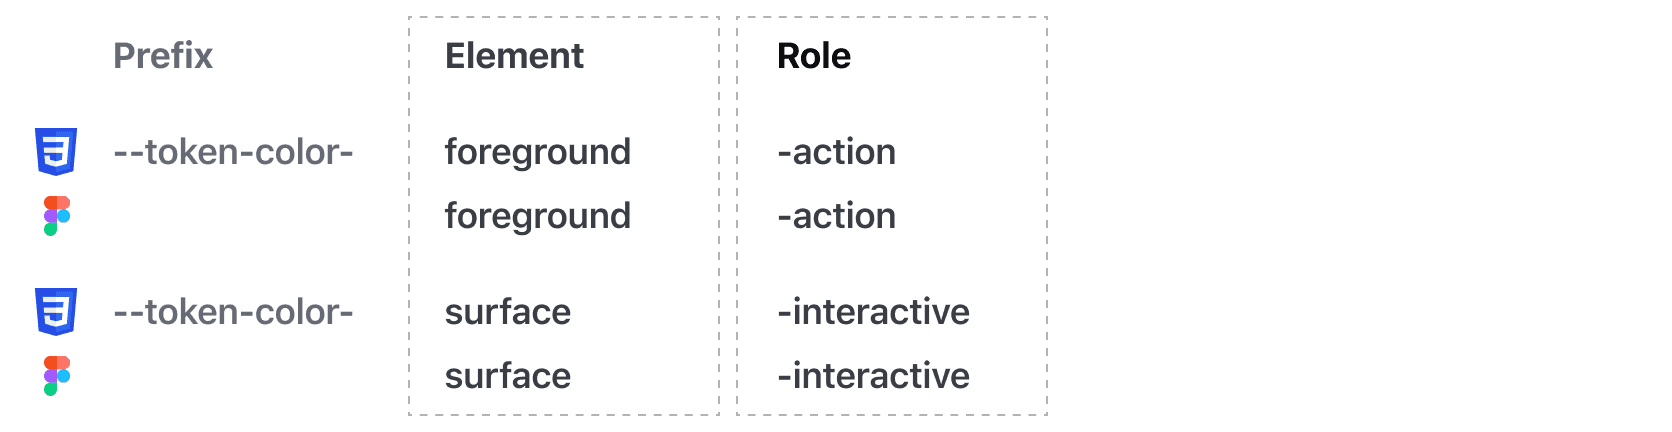
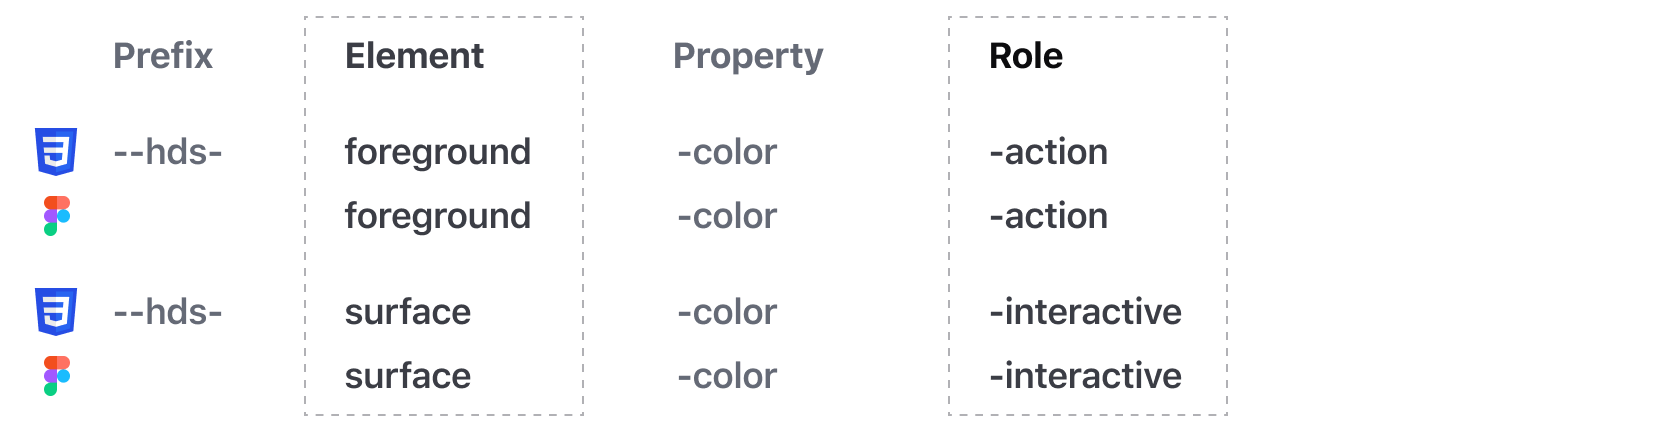
updated “Guidelines” content in “Foundations/Colors” page

diff --git a/website/docs/foundations/colors/partials/guidelines/guidelines.md b/website/docs/foundations/colors/partials/guidelines/guidelines.md
@@ -13,21 +13,21 @@ Tokens in code are generated from platform-agnostic files, in our case JSON, and
 The Semantic Palette embeds meaning into color names, making it easier to select correct consistent values across applications. These colors are designed to meet accessibility standards when used in combination with one another.
 
 - Foreground colors are intended to be used with surface or page colors.
-- Status color values consist of "surface," "on-surface," and "high-contrast" options to meet accessibility standards when used together. 
+- Status color values consist of "surface," "on-surface," and "high-contrast" options to meet accessibility standards when used together.
 
 Some examples of semantic color combinations with their respective contrast ratios are:
 
-- `Foreground/Strong` on `Surface/Primary` nets a ratio of 19.54:1
-- `Foreground/Primary` on `Surface/Primary` nets a ratio of 10.82:1
-- `Foreground/Action` on `Surface/Faint` nets a ratio of 4.86:1
+- `Foreground/Color/Strong` on `Surface/Color/Primary` nets a ratio of 19.54:1
+- `Foreground/Color/Primary` on `Surface/Color/Primary` nets a ratio of 10.82:1
+- `Foreground/Color/Action` on `Surface/Color/Faint` nets a ratio of 4.86:1
 
 ![A Card component with the color contrast ratios for each of the color combinations labelled](/assets/foundations/color/colors-semantic-tokens-accessibility-examples.png)
 
 ### How are semantic names created?
 
-In semantic token naming, the **element** and the **role** are defined to make color decisions easier and more consistent. HDS organizes semantic tokens into **element** categories with **roles** appended.
+In semantic token naming, the semantic **element** and the **role** are defined to make color decisions easier and more consistent. HDS organizes semantic tokens into **element** categories with **properties** and **roles** appended.
 
-![Columns showing how the token name is broken down into a prefix, element, and role](/assets/foundations/color/colors-semantic-token-naming.png)
+![Columns showing how the token name is broken down into a prefix, element, property, and role](/assets/foundations/color/colors-semantic-token-naming.png)
 
 Examples of **element** naming include:
 
@@ -36,7 +36,7 @@ Examples of **element** naming include:
 - **Surface** - For the background (or surface) of a component or container
 - **Page** - For page backgrounds
 
-Examples of **role** in naming include: 
+Examples of **role** in naming include:
 
 - Strong
 - Primary
@@ -50,10 +50,10 @@ Foreground colors are used for informational and decorative elements such as tex
 
 Some common examples of semantic foreground colors include:
 
-- `Foreground/Strong` for headings and secondary links
-- `Foreground/Primary` for body text
-- `Foreground/Faint` for less prominent text and UI elements
-- `Foreground/Action` for primary calls to action such as links
+- `Foreground/Color/Strong` for headings and secondary links
+- `Foreground/Color/Primary` for body text
+- `Foreground/Color/Faint` for less prominent text and UI elements
+- `Foreground/Color/Action` for primary calls to action such as links
 
 ![Samples of text with their color tokens labelled](/assets/foundations/color/colors-foreground-examples.png)
 
@@ -68,9 +68,9 @@ Status foreground colors contextualize responses from user actions or indicate s
 
 Some examples of border colors include:
 
-- `Border/Strong` for secondary Button border
-- `Border/Primary` for Card border or divider
-- `Border/{Status color}` for Alert borders
+- `Border/Color/Strong` for secondary Button border
+- `Border/Color/Primary` for Card border or divider
+- `Border/Color/{Status color}` for Alert borders
 
 ![Sample borders applied on a button, card, and alert with the border color tokens labelled](/assets/foundations/color/colors-border-examples.png)
 
@@ -80,27 +80,27 @@ Surface colors are intended to be used for the background (or surface) of a comp
 
 Examples of surface colors include:
 
-- `Surface/Strong` for the Toggle background
-- `Surface/Primary` for component containers
-- `Surface/Faint` for the secondary Button
-- `Surface/{Status color}` for Alert backgrounds
+- `Surface/Color/Strong` for the Toggle background
+- `Surface/Color/Primary` for component containers
+- `Surface/Color/Faint` for the secondary Button
+- `Surface/Color/{Status color}` for Alert backgrounds
 
 ![Sample surface colors being applied to a badge, card, button, and alert with the surface color token labelled.](/assets/foundations/color/colors-surface-examples.png)
 
 ### Page
 
-Page colors are used for page backgrounds. HDS components do not use these tokens; however, we recommend `Page/Primary` for all standard page backgrounds and `Page/Faint` as a means to create a secondary level on a page if necessary.
+Page colors are used for page backgrounds. HDS components do not use these tokens; however, we recommend `Page/Color/Primary` for all standard page backgrounds and `Page/Color/Faint` as a means to create a secondary level on a page if necessary.
 
 ## Accessible color combinations
 
-We are conformant with WCAG 2.2 Level AA requirements. For color contrast, this means a luminosity ratio of 4.5:1 for normal sized text, and 3:1 for large text (commonly 22px). Further details are outlined on [WCAG’s understanding of Contrast (Minimum)](https://www.w3.org/WAI/WCAG22/Understanding/contrast-minimum.html). 
+We are conformant with WCAG 2.2 Level AA requirements. For color contrast, this means a luminosity ratio of 4.5:1 for normal sized text, and 3:1 for large text (commonly 22px). Further details are outlined on [WCAG’s understanding of Contrast (Minimum)](https://www.w3.org/WAI/WCAG22/Understanding/contrast-minimum.html).
 
-HDS semantic color tokens provide accessible color combinations out of the box when used according to their naming conventions (`Surface/{Status color}`is compliant in combination with `Foreground/{Status color on surface}`). Using other color token combinations requires manual validation.
+HDS semantic color tokens provide accessible color combinations out of the box when used according to their naming conventions (`Surface/Color/{Status color}`is compliant in combination with `Foreground/Color/{Status color on surface}`). Using other color token combinations requires manual validation.
 
 It is important to note that we [do not recommend the usage of disabled elements](/patterns/disabled-patterns), especially isolating disabled colors out of context, as they are not accessible.
 
 ### Using palette colors
 
-If Semantic tokens do not meet your needs, the Core Palette is published for general use. These values are usage-agnostic, which can introduce challenges in consistently scaling designs but also allow more freedom and flexibility in color pairing. 
+If Semantic tokens do not meet your needs, the Core Palette is published for general use. These values are usage-agnostic, which can introduce challenges in consistently scaling designs but also allow more freedom and flexibility in color pairing.
 
 When pairing colors from the Core Palette, check that adjacent colors meet accessible contrast ratios. To validate your color combinations, use free tools like the [WebAIM contrast checker](https://webaim.org/resources/contrastchecker/) or [Stark’s Figma plugin](https://www.figma.com/community/plugin/732603254453395948/stark-contrast-accessibility-checker).
